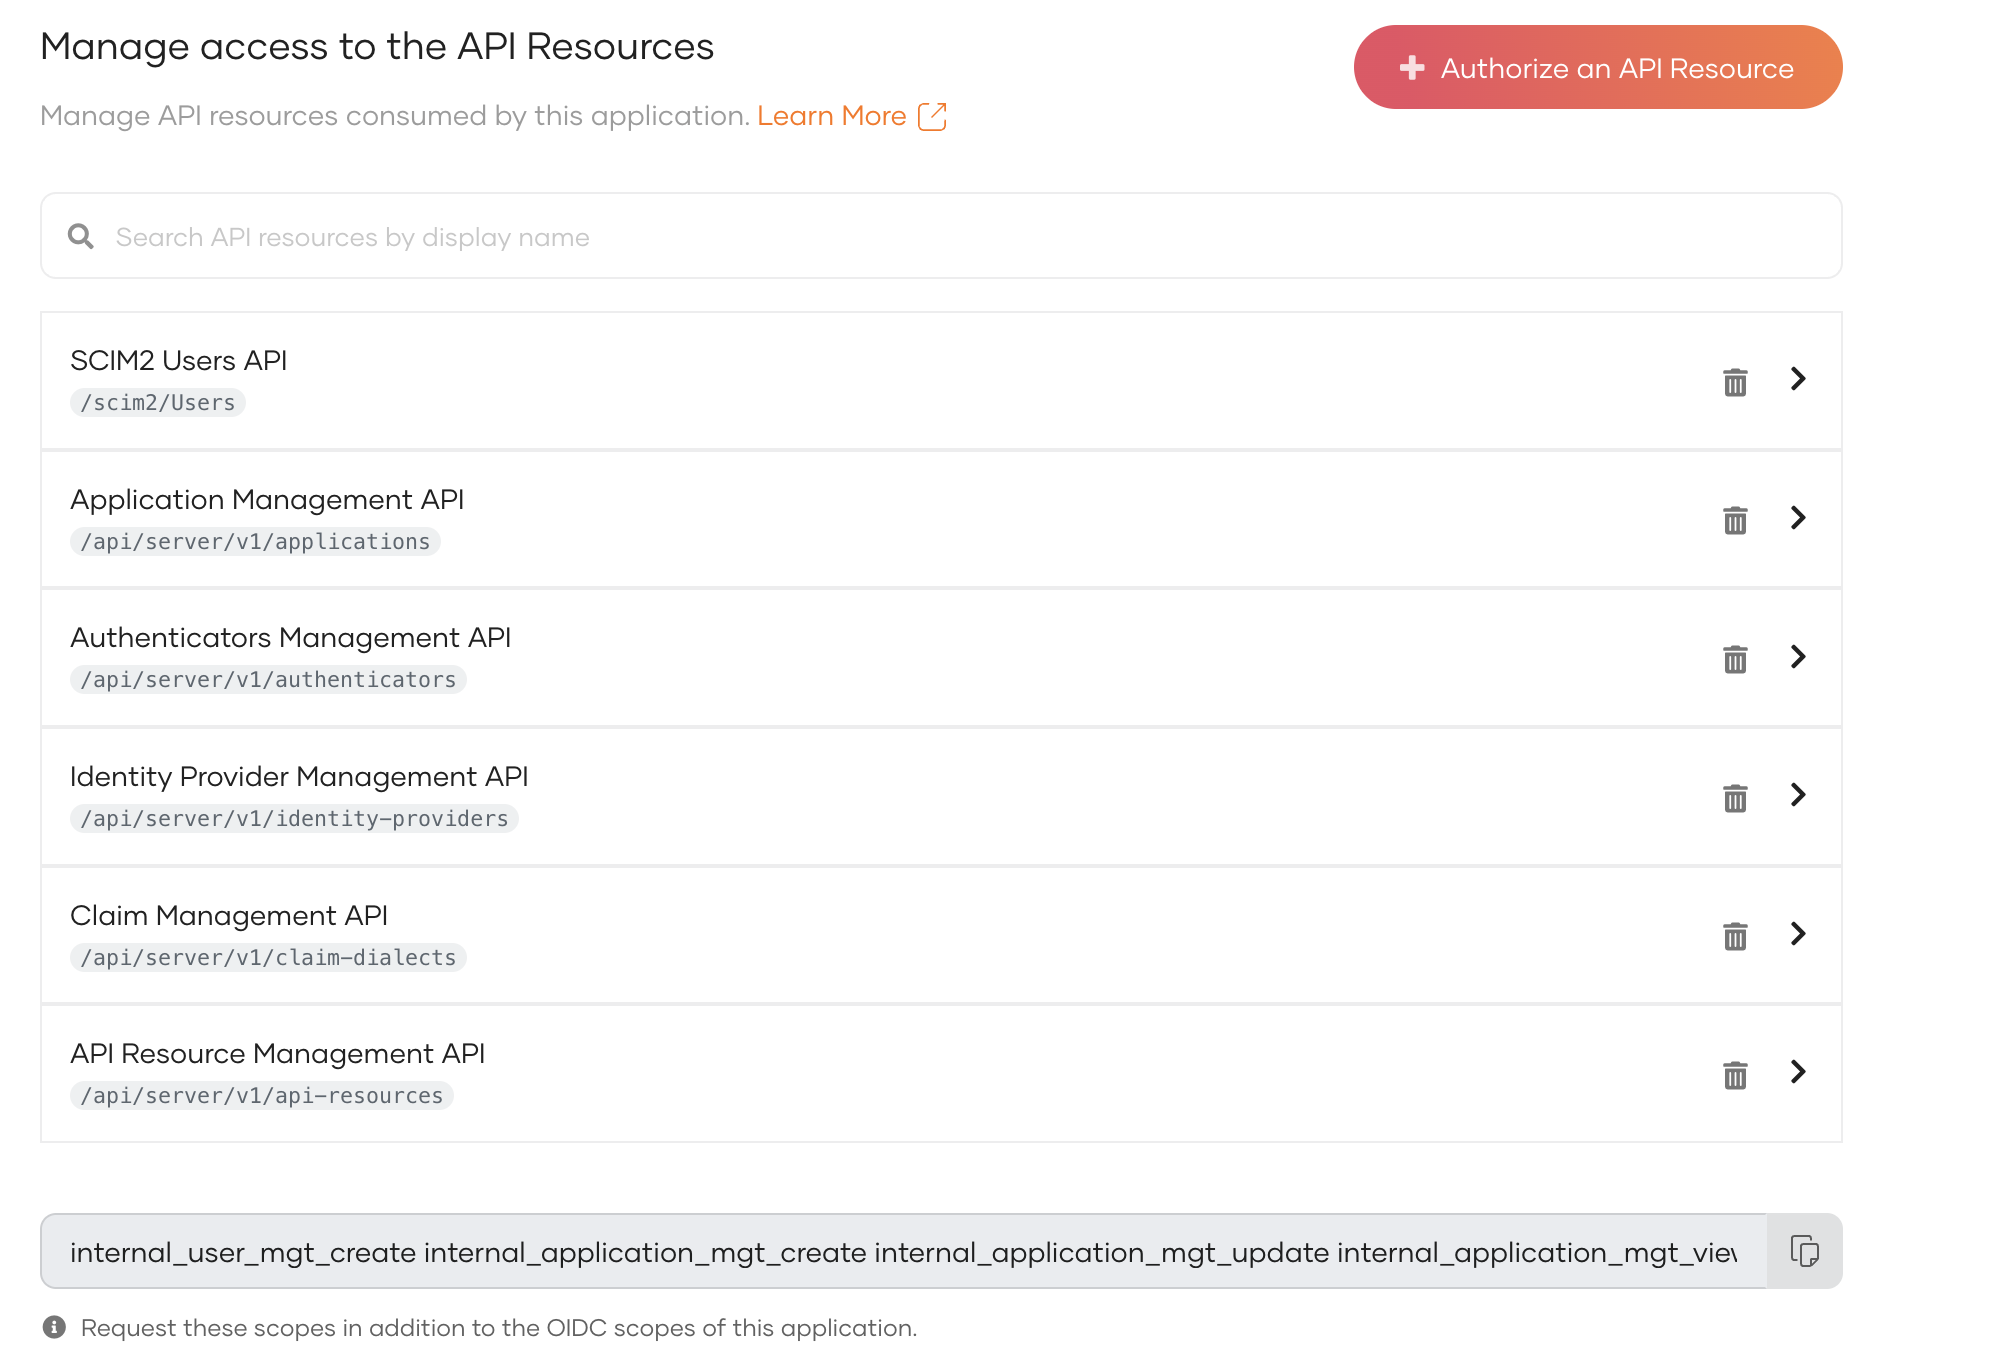
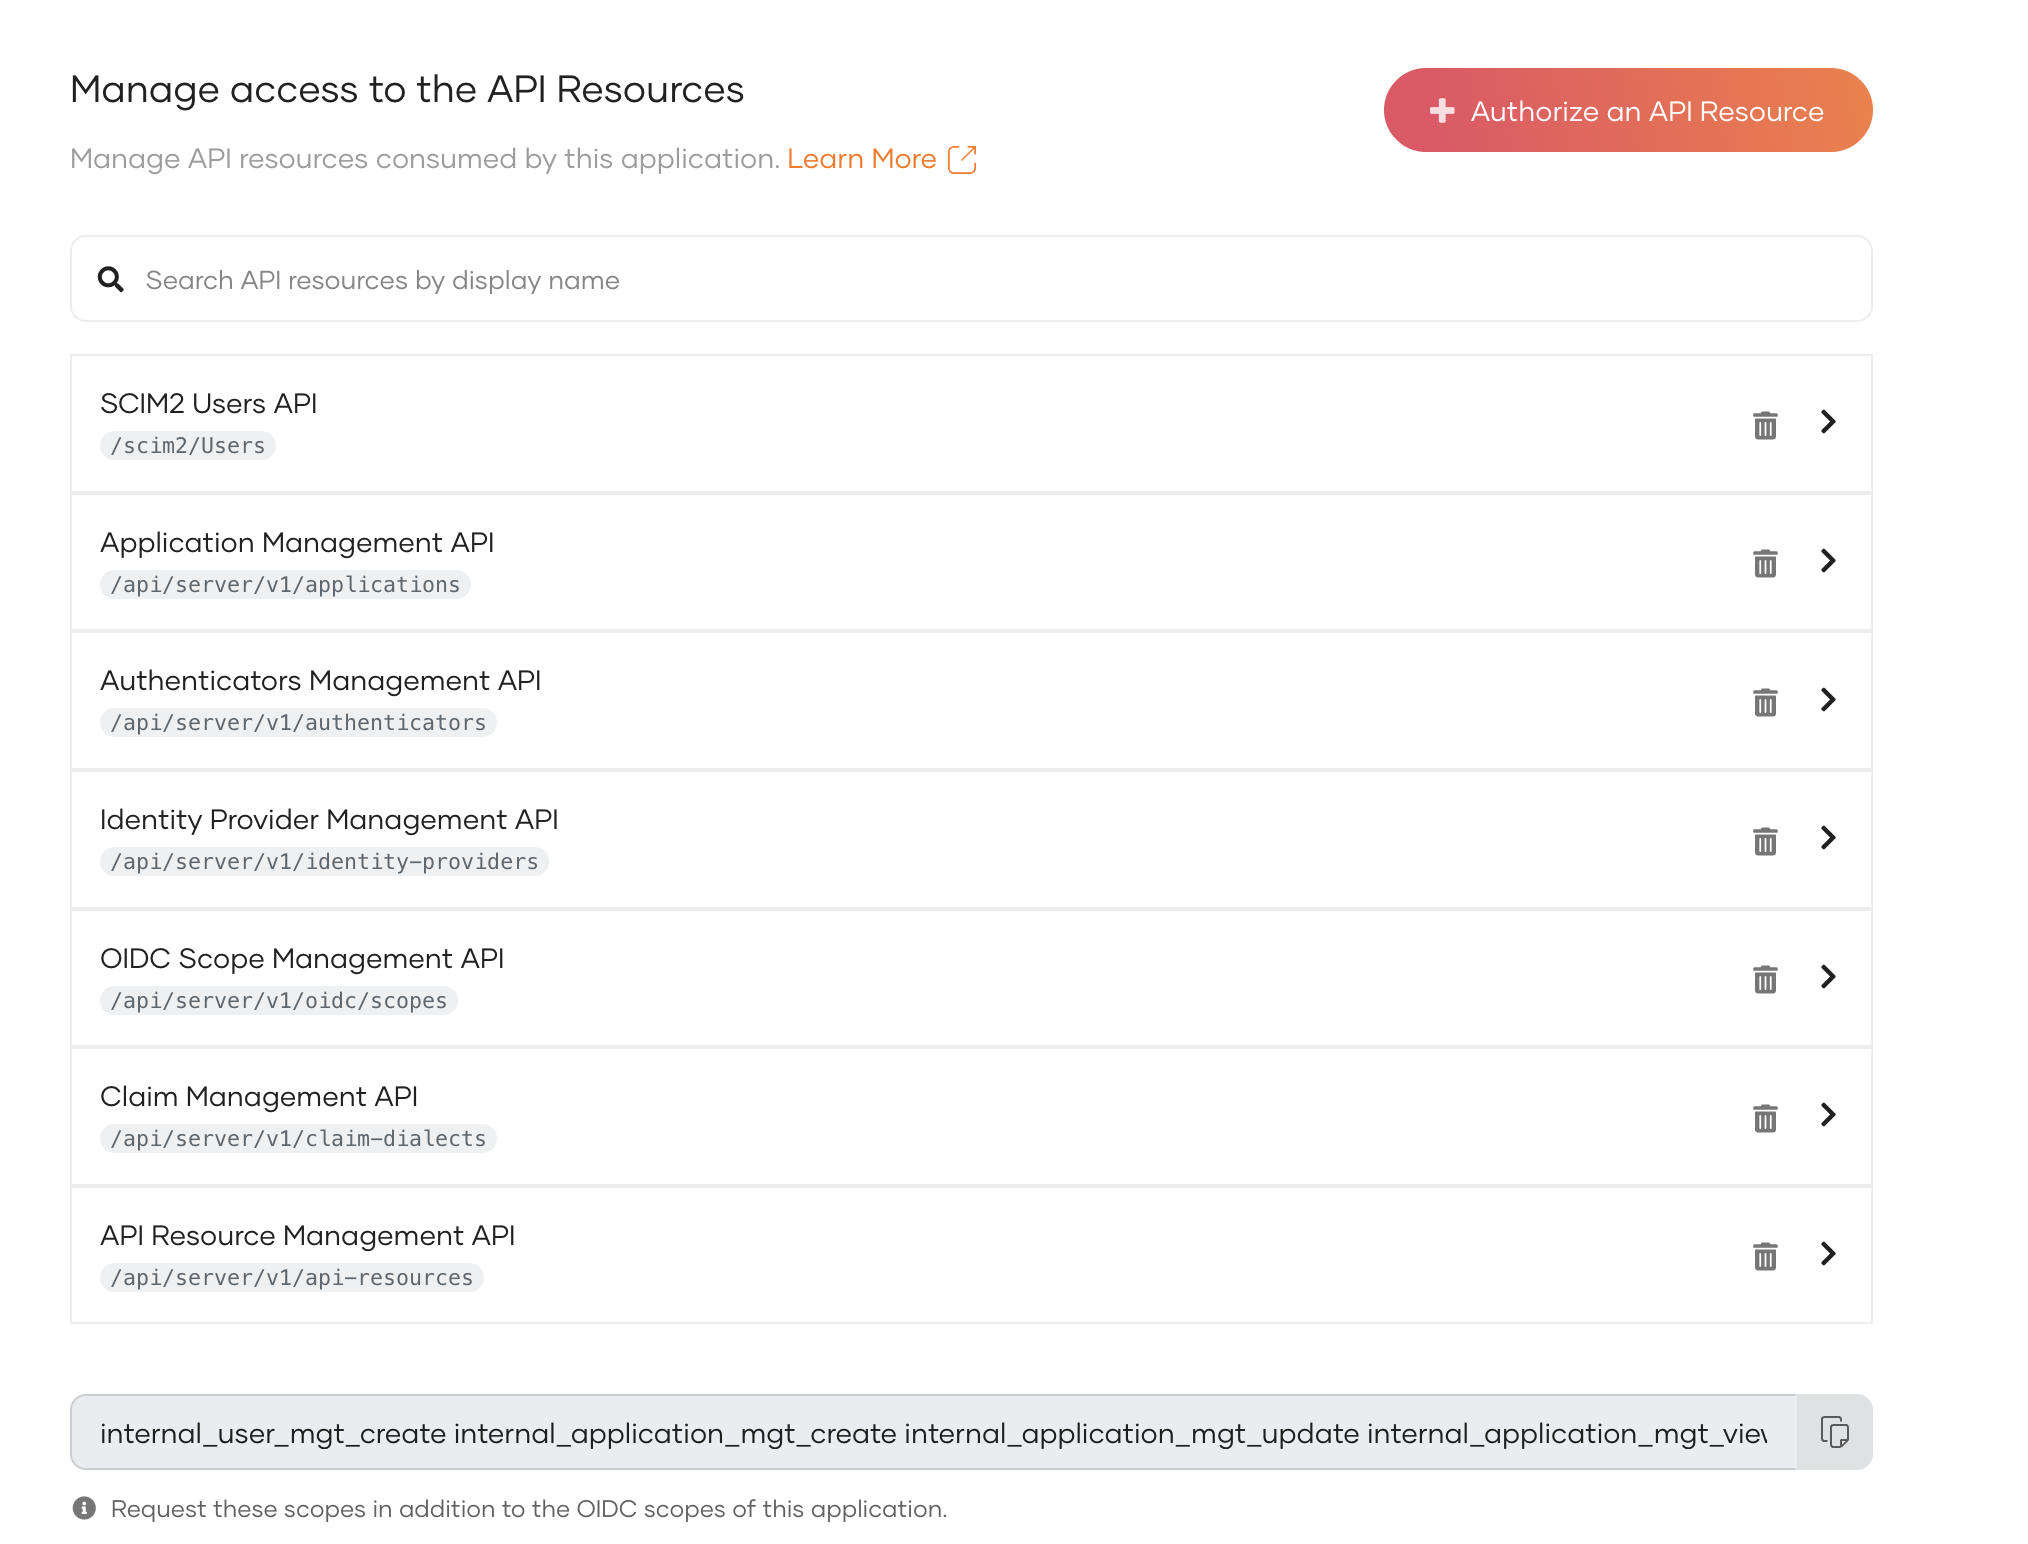
Updated MCP QSG as per the latest changes

diff --git a/en/includes/quick-starts/mcp-server.md b/en/includes/quick-starts/mcp-server.md
@@ -28,7 +28,7 @@ Next, go to the **API Authorization** tab in your Asgardeo application settings 
 | **Authenticators Management API** (`/api/server/v1/authenticators`) | `internal_authenticator_view` |
 | **Claim Management API** (`/api/server/v1/claim-dialects`) | `internal_claim_meta_view` |
 | **SCIM2 Users API** (`/scim2/Users`) | `internal_user_mgt_create` |
-
+| **OIDC Scope Management API** (`/api/server/v1/oidc/scopes`) | `internal_oidc_scope_mgt_view` |
 
 
 Once completed, your API Authorization configuration should resemble the example shown in the screenshot.
